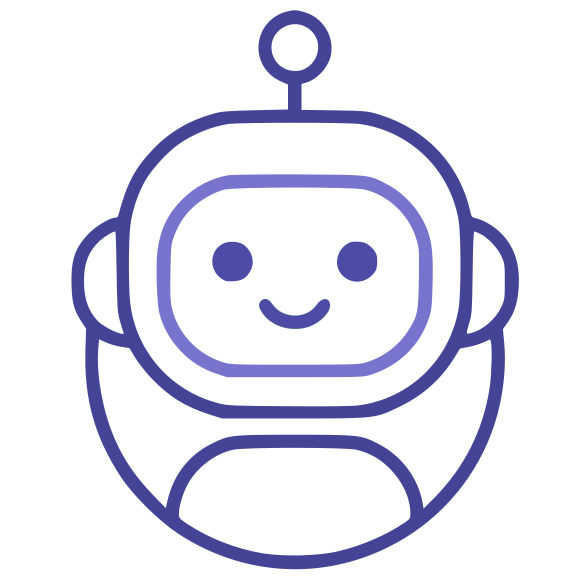
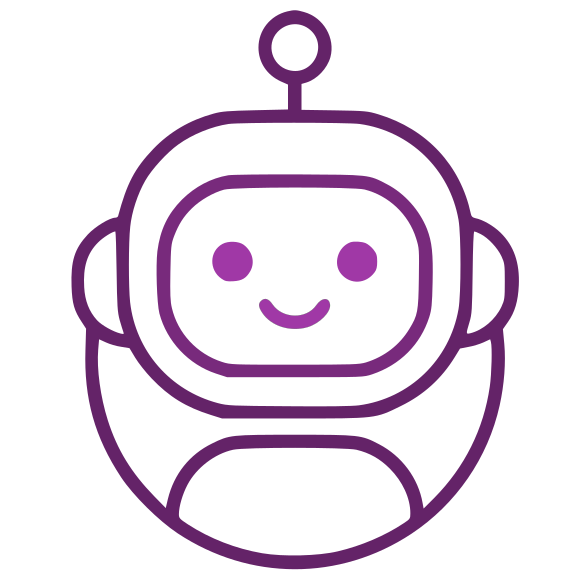
fix: onboarding ui

diff --git a/src/screens/onboarding/onboardingPages.js b/src/screens/onboarding/onboardingPages.js
@@ -1,7 +1,6 @@
-import {View, Text, Dimensions, Image, StyleSheet} from 'react-native';
+import {View, Text, Dimensions, StyleSheet, Animated} from 'react-native';
 import React from 'react';
-import Bot from '../../assets/images/bot.png';
-import OpenAi from '../../assets/images/open-ai.png';
+
 import {LinearTextGradient} from 'react-native-text-gradient';
 
 import {
@@ -18,7 +17,7 @@ const Onboardingscreen = ({item}) => {
   const {image, title, subTitle, desc} = item;
   return (
     <View style={{flex: 1, width, padding: responsiveScreenWidth(2)}}>
-      <Image source={image} style={style.image} />
+      <Animated.Image source={image} style={style.image} />
       <View style={style.textWrapper}>
         <LinearTextGradient
           numberOfLines={1}
@@ -41,75 +40,6 @@ const Onboardingscreen = ({item}) => {
         </LinearTextGradient>
 
         <Text style={style.description}>{desc}</Text>
-      </View>
-    </View>
-  );
-};
-
-export const OpenAI = () => {
-  return (
-    <View style={{flex: 1, width}}>
-      <Image source={OpenAi} style={style.image} />
-
-      <View style={style.textWrapper}>
-        <LinearTextGradient
-          numberOfLines={1}
-          useViewFrame={true}
-          locations={[0, 1]}
-          colors={[primary2[500], primary2[100]]}
-          start={{x: 0, y: 0}}
-          end={{x: 1, y: 0}}>
-          <Text style={style.heading}>Integrated with OpenAI</Text>
-        </LinearTextGradient>
-
-        <LinearTextGradient
-          numberOfLines={1}
-          useViewFrame={true}
-          locations={[0, 1]}
-          colors={[primary2[500], primary2[100]]}
-          start={{x: 0, y: 0}}
-          end={{x: 1, y: 0}}>
-          <Text style={style.subHeading}>(ChatGPT and DALL·E)</Text>
-        </LinearTextGradient>
-
-        <Text style={style.description}>
-          For answering all the question & {'\n'}to create image from a
-          description
-        </Text>
-      </View>
-    </View>
-  );
-};
-
-export const TTS = () => {
-  return (
-    <View style={{flex: 1, width}}>
-      <Image source={Bot} style={style.image} />
-      <View style={style.textWrapper}>
-        <LinearTextGradient
-          numberOfLines={1}
-          useViewFrame={true}
-          locations={[0, 1]}
-          colors={[primary2[500], primary2[100]]}
-          start={{x: 0, y: 0}}
-          end={{x: 1, y: 0}}>
-          <Text style={style.heading}>Voice Search &</Text>
-        </LinearTextGradient>
-
-        <LinearTextGradient
-          numberOfLines={1}
-          useViewFrame={true}
-          locations={[0, 1]}
-          colors={[primary2[500], primary2[100]]}
-          start={{x: 0, y: 0}}
-          end={{x: 1, y: 0}}>
-          <Text style={style.subHeading}>Read aloud</Text>
-        </LinearTextGradient>
-
-        <Text style={style.description}>
-          Simply speak your query & get {'\n'}answer into natural-sounding
-          speech
-        </Text>
       </View>
     </View>
   );

diff --git a/src/screens/onboarding/index.js b/src/screens/onboarding/index.js
@@ -19,6 +19,8 @@ import {LinearTextGradient} from 'react-native-text-gradient';
 import {fontsize} from '../../constants/fontsize';
 import Bot from '../../assets/images/bot.png';
 import OpenAi from '../../assets/images/open-ai.png';
+import VoiceSearch from '../../assets/images/voiceSearch.png';
+
 import Onboardingscreen from './onboardingPages';
 
 const {width} = Dimensions.get('window');
@@ -39,7 +41,7 @@ const slides = [
     page: 'openAi',
   },
   {
-    image: Bot,
+    image: VoiceSearch,
     title: 'Voice search &',
     subTitle: 'Read aloud',
     desc: 'Simply speak your query & get \nanswer into natural-sounding speech',
@@ -83,6 +85,7 @@ export default function Onboarding({navigation}) {
         showsHorizontalScrollIndicator={false}
         renderItem={({item}) => <Onboardingscreen item={item} />}
         contentContainerStyle={{}}
+        initialNumToRender={1}
       />
 
       <View style={styles.footerWrapper}>

diff --git a/src/constants/color.js b/src/constants/color.js
@@ -12,7 +12,7 @@ export const primary2 = {
   700: '#8c3191',
   600: '#a038a6',
   500: 'rgb(200,71,208)',
-  400: 'rgb(231,106,231)',
+  400: '#e76ae7',
   300: 'rgb(217,117,231)',
   200: 'rgb(214,177,192)',
   100: 'rgb(230,86,126)',
